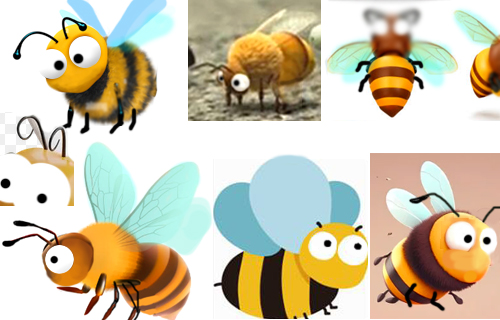
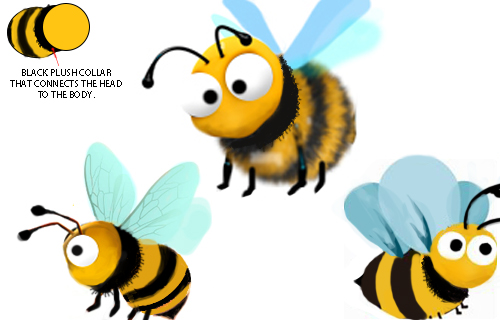
Add files via upload

diff --git a/player_id2729/characters-ck.html b/player_id2729/characters-ck.html
@@ -62,9 +62,13 @@ https://www.youtube.com/watch?v=-uwZIdcflDE</font></p>
 <p align="left"><span style="font-size: 20pt"><span style="font-weight: 700">Bee</span></span><br>
 </font><span lang="ja">「</span>This is one of the main character of the game<span lang="ja">」</span><img border="0" src="bee.jpg" width="500" height="320"></p>
 <p align="left">1.The above picture is for reference only, it meets about 
-75% of the needs. multiple options are needed to determine direction first.<br>
+99% of the needs. multiple options are needed to determine direction first.<br>
 <br>
-2.The wings are 4, light blue, no mouth, 6 legs.</font></p>
+1.The wings are 4, light blue, no mouth, 6 legs.</font><br><br>
+2.Black plush collar that connects the head to the body.<br><br>
+3.As shown in the picture，cheeks are perfectly lined, not completely flat<br>
+4.The lines of the antennae's antennae should be exactly the same as the bee's antennae in the center please.<br>
+</p>
 <p align="left">
 Animation Reference:<br>
 https://www.youtube.com/watch?v=pETQTk-FeOI</font></p>
